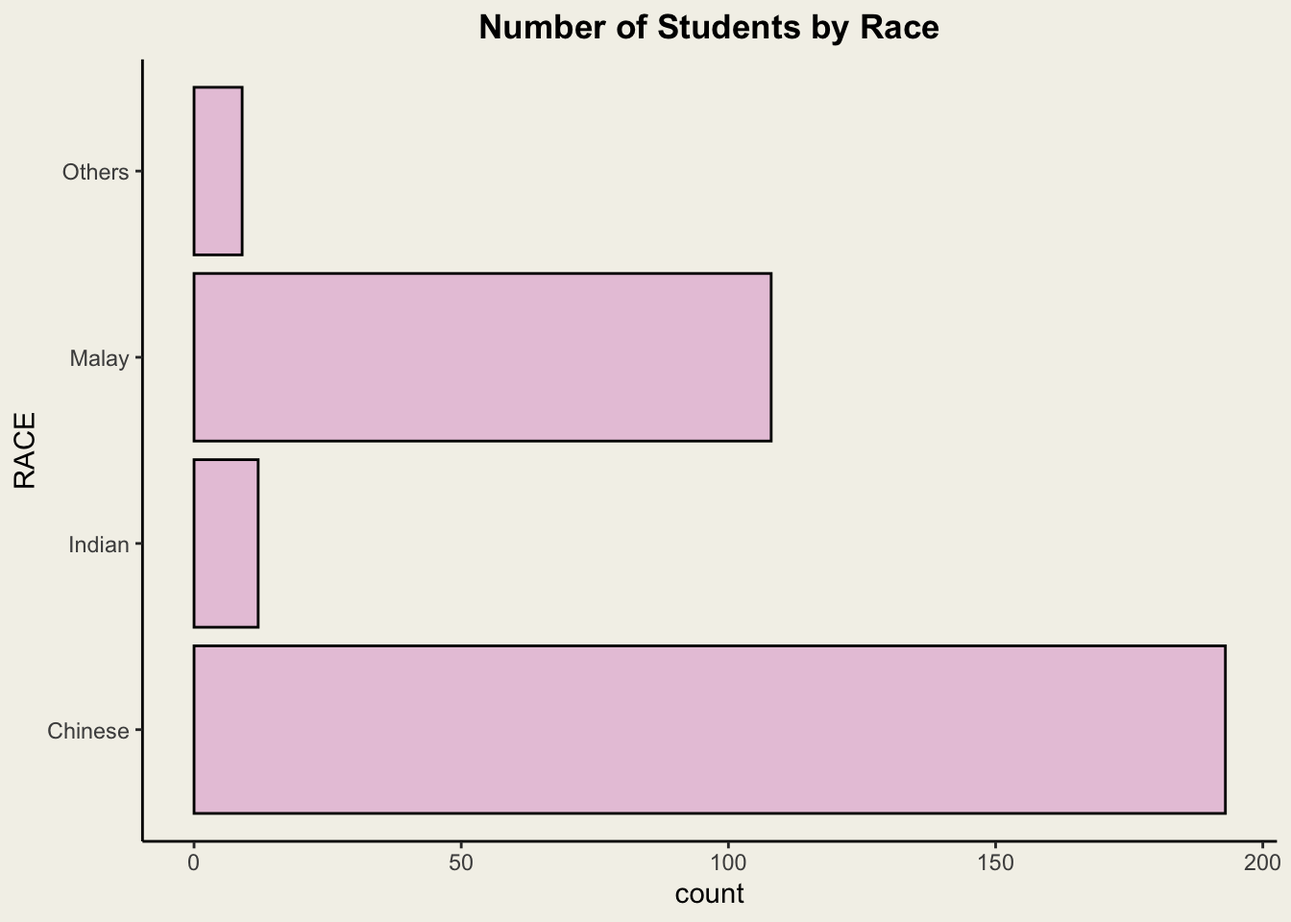
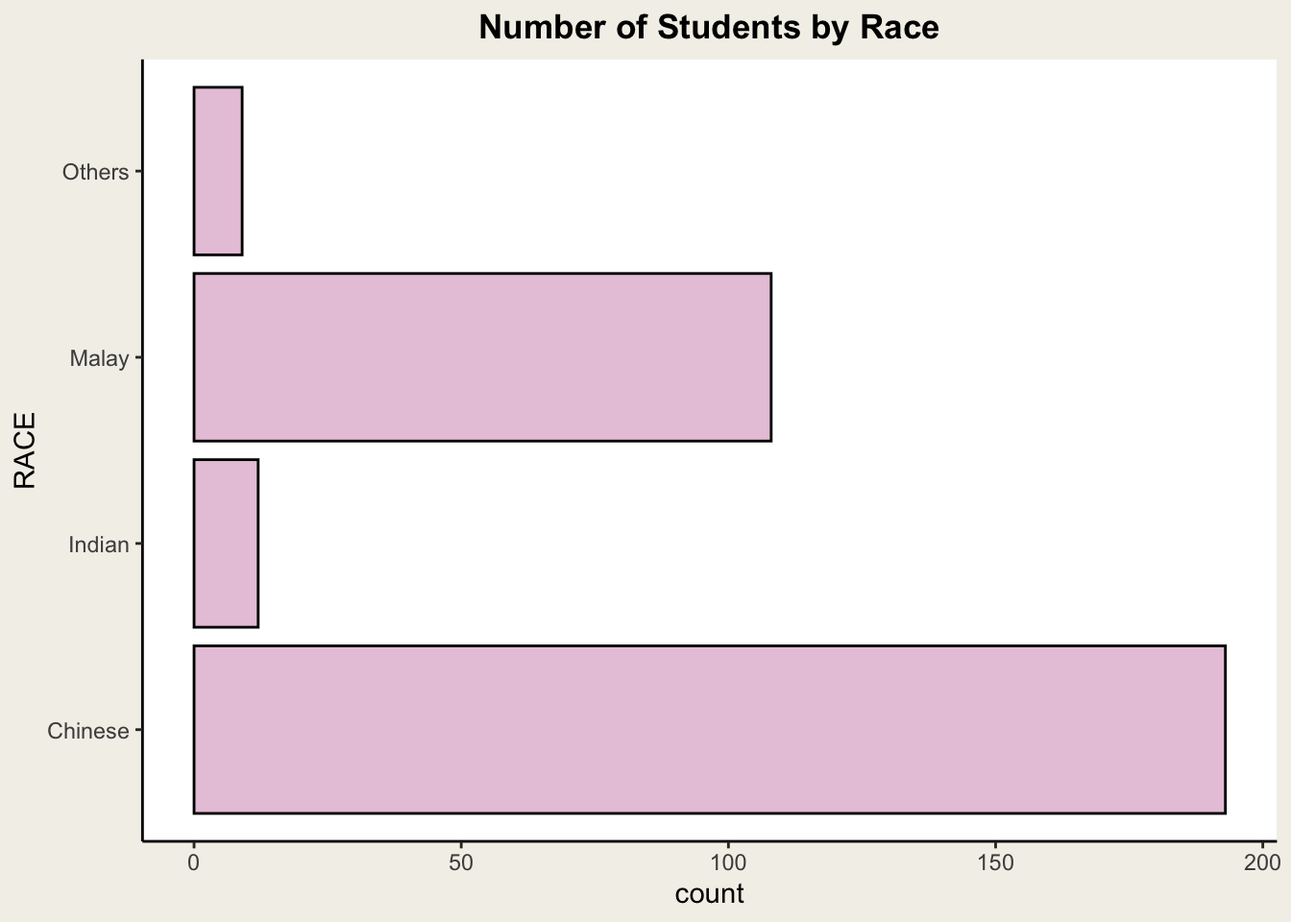
Update navbar-collapse

diff --git a/_site/Hands-on_Ex/Hands-on_Ex01/Hands-on_Ex01.html b/_site/Hands-on_Ex/Hands-on_Ex01/Hands-on_Ex01.html
@@ -65,7 +65,7 @@ pre > code.sourceCode > span > a:first-child::before { text-decoration: underlin
 <script src="../../site_libs/quarto-search/fuse.min.js"></script>
 <script src="../../site_libs/quarto-search/quarto-search.js"></script>
 <meta name="quarto:offset" content="../../">
-<link href="../../images/favicon-3/favicon.ico" rel="icon">
+<link href="../../images/favicon/web-app-manifest-192x192.png" rel="icon" type="image/png">
 <script src="../../site_libs/quarto-html/quarto.js"></script>
 <script src="../../site_libs/quarto-html/popper.min.js"></script>
 <script src="../../site_libs/quarto-html/tippy.umd.min.js"></script>
@@ -541,7 +541,12 @@ pre > code.sourceCode > span > a:first-child::before { text-decoration: underlin
 <span id="cb13-6"><a href="#cb13-6" aria-hidden="true" tabindex="-1"></a>                 <span class="at">fill=</span><span class="st">"#E8C8DB"</span>)<span class="sc">+</span></span>
 <span id="cb13-7"><a href="#cb13-7" aria-hidden="true" tabindex="-1"></a>  <span class="fu">ggtitle</span>(<span class="st">"Distribution of Math Scores"</span>)<span class="sc">+</span></span>
 <span id="cb13-8"><a href="#cb13-8" aria-hidden="true" tabindex="-1"></a>  <span class="fu">theme_classic</span>()<span class="sc">+</span></span>
-<span id="cb13-9"><a href="#cb13-9" aria-hidden="true" tabindex="-1"></a>  <span class="fu">theme</span>(<span class="at">plot.title =</span> <span class="fu">element_text</span>(<span class="at">hjust =</span> <span class="fl">0.5</span>, <span class="at">face=</span><span class="st">"bold"</span>))</span></code><button title="Copy to Clipboard" class="code-copy-button"><i class="bi"></i></button></pre></div>
+<span id="cb13-9"><a href="#cb13-9" aria-hidden="true" tabindex="-1"></a>  <span class="fu">theme</span>(<span class="at">plot.title =</span> <span class="fu">element_text</span>(<span class="at">hjust =</span> <span class="fl">0.5</span>, <span class="at">face=</span><span class="st">"bold"</span>),</span>
+<span id="cb13-10"><a href="#cb13-10" aria-hidden="true" tabindex="-1"></a>        <span class="co"># adjust the background color behind the bar chart</span></span>
+<span id="cb13-11"><a href="#cb13-11" aria-hidden="true" tabindex="-1"></a>        <span class="at">panel.background =</span> <span class="fu">element_rect</span>(<span class="at">fill =</span> <span class="st">"#f3f1e9"</span>),</span>
+<span id="cb13-12"><a href="#cb13-12" aria-hidden="true" tabindex="-1"></a>        <span class="co"># adjust the background color of the whole plot</span></span>
+<span id="cb13-13"><a href="#cb13-13" aria-hidden="true" tabindex="-1"></a>        <span class="at">plot.background =</span> <span class="fu">element_rect</span>(<span class="at">fill =</span> <span class="st">"#f3f1e9"</span>,<span class="at">color =</span> <span class="cn">NA</span>),</span>
+<span id="cb13-14"><a href="#cb13-14" aria-hidden="true" tabindex="-1"></a>        <span class="at">legend.background =</span> <span class="fu">element_rect</span>(<span class="at">fill =</span> <span class="st">"#f3f1e9"</span>))</span></code><button title="Copy to Clipboard" class="code-copy-button"><i class="bi"></i></button></pre></div>
 <div class="cell-output-display">
 <div>
 <figure class="figure">
@@ -573,7 +578,8 @@ pre > code.sourceCode > span > a:first-child::before { text-decoration: underlin
 <span id="cb14-11"><a href="#cb14-11" aria-hidden="true" tabindex="-1"></a>        <span class="co"># adjust the background color behind the bar chart</span></span>
 <span id="cb14-12"><a href="#cb14-12" aria-hidden="true" tabindex="-1"></a>        <span class="at">panel.background =</span> <span class="fu">element_rect</span>(<span class="at">fill =</span> <span class="st">"#f3f1e9"</span>),</span>
 <span id="cb14-13"><a href="#cb14-13" aria-hidden="true" tabindex="-1"></a>        <span class="co"># adjust the background color of the whole plot</span></span>
-<span id="cb14-14"><a href="#cb14-14" aria-hidden="true" tabindex="-1"></a>        <span class="at">plot.background =</span> <span class="fu">element_rect</span>(<span class="at">fill =</span> <span class="st">"#f3f1e9"</span>,<span class="at">color =</span> <span class="cn">NA</span>))              </span></code><button title="Copy to Clipboard" class="code-copy-button"><i class="bi"></i></button></pre></div>
+<span id="cb14-14"><a href="#cb14-14" aria-hidden="true" tabindex="-1"></a>        <span class="at">plot.background =</span> <span class="fu">element_rect</span>(<span class="at">fill =</span> <span class="st">"#f3f1e9"</span>,<span class="at">color =</span> <span class="cn">NA</span>),</span>
+<span id="cb14-15"><a href="#cb14-15" aria-hidden="true" tabindex="-1"></a>        <span class="at">legend.background =</span> <span class="fu">element_rect</span>(<span class="at">fill =</span> <span class="st">"#f3f1e9"</span>))</span></code><button title="Copy to Clipboard" class="code-copy-button"><i class="bi"></i></button></pre></div>
 <div class="cell-output-display">
 <div>
 <figure class="figure">
@@ -625,7 +631,8 @@ pre > code.sourceCode > span > a:first-child::before { text-decoration: underlin
 <span id="cb16-9"><a href="#cb16-9" aria-hidden="true" tabindex="-1"></a>        <span class="co"># adjust the background color behind the bar chart</span></span>
 <span id="cb16-10"><a href="#cb16-10" aria-hidden="true" tabindex="-1"></a>        <span class="at">panel.background =</span> <span class="fu">element_rect</span>(<span class="at">fill =</span> <span class="st">"#f3f1e9"</span>),</span>
 <span id="cb16-11"><a href="#cb16-11" aria-hidden="true" tabindex="-1"></a>        <span class="co"># adjust the background color of the whole plot</span></span>
-<span id="cb16-12"><a href="#cb16-12" aria-hidden="true" tabindex="-1"></a>        <span class="at">plot.background =</span> <span class="fu">element_rect</span>(<span class="at">fill =</span> <span class="st">"#f3f1e9"</span>,<span class="at">color =</span> <span class="cn">NA</span>))</span></code><button title="Copy to Clipboard" class="code-copy-button"><i class="bi"></i></button></pre></div>
+<span id="cb16-12"><a href="#cb16-12" aria-hidden="true" tabindex="-1"></a>        <span class="at">plot.background =</span> <span class="fu">element_rect</span>(<span class="at">fill =</span> <span class="st">"#f3f1e9"</span>,<span class="at">color =</span> <span class="cn">NA</span>),</span>
+<span id="cb16-13"><a href="#cb16-13" aria-hidden="true" tabindex="-1"></a>        <span class="at">legend.background =</span> <span class="fu">element_rect</span>(<span class="at">fill =</span> <span class="st">"#f3f1e9"</span>))</span></code><button title="Copy to Clipboard" class="code-copy-button"><i class="bi"></i></button></pre></div>
 <div class="cell-output-display">
 <div>
 <figure class="figure">
@@ -733,7 +740,7 @@ pre > code.sourceCode > span > a:first-child::before { text-decoration: underlin
 <span id="cb20-3"><a href="#cb20-3" aria-hidden="true" tabindex="-1"></a>           <span class="at">y =</span> ENGLISH,</span>
 <span id="cb20-4"><a href="#cb20-4" aria-hidden="true" tabindex="-1"></a>           <span class="at">color =</span> GENDER))<span class="sc">+</span></span>
 <span id="cb20-5"><a href="#cb20-5" aria-hidden="true" tabindex="-1"></a>  <span class="fu">geom_point</span>()<span class="sc">+</span></span>
-<span id="cb20-6"><a href="#cb20-6" aria-hidden="true" tabindex="-1"></a>  <span class="fu">scale_color_manual</span>(<span class="at">values =</span> <span class="fu">c</span>(<span class="st">"#E8C8DB"</span>, <span class="st">"#C8DBE8"</span>))<span class="sc">+</span></span>
+<span id="cb20-6"><a href="#cb20-6" aria-hidden="true" tabindex="-1"></a>  <span class="fu">scale_color_manual</span>(<span class="at">values =</span> <span class="fu">c</span>(<span class="st">"#D9A4C3"</span>, <span class="st">"#A4A8D9"</span>))<span class="sc">+</span></span>
 <span id="cb20-7"><a href="#cb20-7" aria-hidden="true" tabindex="-1"></a>  <span class="fu">ggtitle</span>(<span class="st">"Distribution of Math Scores by Gender"</span>)<span class="sc">+</span></span>
 <span id="cb20-8"><a href="#cb20-8" aria-hidden="true" tabindex="-1"></a>  <span class="fu">theme_classic</span>()<span class="sc">+</span></span>
 <span id="cb20-9"><a href="#cb20-9" aria-hidden="true" tabindex="-1"></a>  <span class="fu">theme</span>(<span class="at">plot.title =</span> <span class="fu">element_text</span>(<span class="at">hjust =</span> <span class="fl">0.5</span>, <span class="at">face=</span><span class="st">"bold"</span>),</span>
@@ -1100,7 +1107,7 @@ position_identity </code></pre>
 <p>Built-in themes include: -&nbsp;<code>theme_gray()</code>&nbsp;(default) -&nbsp;<code>theme_bw()</code>&nbsp;-&nbsp;<code>theme_classic()</code></p>
 <p>A list of theme can be found at this&nbsp;<a href="https://ggplot2.tidyverse.org/reference/ggtheme.html">link</a>. Each theme element can be conceived of as either a line (e.g.&nbsp;x-axis), a rectangle (e.g.&nbsp;graph background), or text (e.g.&nbsp;axis title).</p>
 <div class="tabset-margin-container"></div><div class="panel-tabset">
-<ul class="nav nav-tabs" role="tablist"><li class="nav-item" role="presentation"><a class="nav-link active" id="tabset-7-1-tab" data-bs-toggle="tab" data-bs-target="#tabset-7-1" role="tab" aria-controls="tabset-7-1" aria-selected="true">theme_gray()</a></li><li class="nav-item" role="presentation"><a class="nav-link" id="tabset-7-2-tab" data-bs-toggle="tab" data-bs-target="#tabset-7-2" role="tab" aria-controls="tabset-7-2" aria-selected="false">theme_classic()</a></li><li class="nav-item" role="presentation"><a class="nav-link" id="tabset-7-3-tab" data-bs-toggle="tab" data-bs-target="#tabset-7-3" role="tab" aria-controls="tabset-7-3" aria-selected="false">theme_minimal()</a></li><li class="nav-item" role="presentation"><a class="nav-link" id="tabset-7-4-tab" data-bs-toggle="tab" data-bs-target="#tabset-7-4" role="tab" aria-controls="tabset-7-4" aria-selected="false">theme_bw()</a></li></ul>
+<ul class="nav nav-tabs" role="tablist"><li class="nav-item" role="presentation"><a class="nav-link active" id="tabset-7-1-tab" data-bs-toggle="tab" data-bs-target="#tabset-7-1" role="tab" aria-controls="tabset-7-1" aria-selected="true">theme_gray()</a></li><li class="nav-item" role="presentation"><a class="nav-link" id="tabset-7-2-tab" data-bs-toggle="tab" data-bs-target="#tabset-7-2" role="tab" aria-controls="tabset-7-2" aria-selected="false">theme_classic()</a></li><li class="nav-item" role="presentation"><a class="nav-link" id="tabset-7-3-tab" data-bs-toggle="tab" data-bs-target="#tabset-7-3" role="tab" aria-controls="tabset-7-3" aria-selected="false">theme_minimal()</a></li><li class="nav-item" role="presentation"><a class="nav-link" id="tabset-7-4-tab" data-bs-toggle="tab" data-bs-target="#tabset-7-4" role="tab" aria-controls="tabset-7-4" aria-selected="false">theme_bw()</a></li><li class="nav-item" role="presentation"><a class="nav-link" id="tabset-7-5-tab" data-bs-toggle="tab" data-bs-target="#tabset-7-5" role="tab" aria-controls="tabset-7-5" aria-selected="false">theme_dark()</a></li><li class="nav-item" role="presentation"><a class="nav-link" id="tabset-7-6-tab" data-bs-toggle="tab" data-bs-target="#tabset-7-6" role="tab" aria-controls="tabset-7-6" aria-selected="false">theme_linedraw()</a></li><li class="nav-item" role="presentation"><a class="nav-link" id="tabset-7-7-tab" data-bs-toggle="tab" data-bs-target="#tabset-7-7" role="tab" aria-controls="tabset-7-7" aria-selected="false">theme_void()</a></li></ul>
 <div class="tab-content">
 <div id="tabset-7-1" class="tab-pane active" role="tabpanel" aria-labelledby="tabset-7-1-tab">
 <p>This is the default theme.</p>
@@ -1132,10 +1139,9 @@ position_identity </code></pre>
 <span id="cb37-5"><a href="#cb37-5" aria-hidden="true" tabindex="-1"></a>  <span class="fu">theme_classic</span>()<span class="sc">+</span></span>
 <span id="cb37-6"><a href="#cb37-6" aria-hidden="true" tabindex="-1"></a>  <span class="fu">ggtitle</span>(<span class="st">"Number of Students by Race"</span>)<span class="sc">+</span></span>
 <span id="cb37-7"><a href="#cb37-7" aria-hidden="true" tabindex="-1"></a>  <span class="fu">theme</span>(<span class="at">plot.title =</span> <span class="fu">element_text</span>(<span class="at">hjust =</span> <span class="fl">0.5</span>, <span class="at">face=</span><span class="st">"bold"</span>),</span>
-<span id="cb37-8"><a href="#cb37-8" aria-hidden="true" tabindex="-1"></a>        <span class="at">panel.background =</span> <span class="fu">element_rect</span>(<span class="at">fill =</span> <span class="st">"#f3f1e9"</span>,<span class="at">color =</span> <span class="cn">NA</span>),</span>
-<span id="cb37-9"><a href="#cb37-9" aria-hidden="true" tabindex="-1"></a>        <span class="co"># adjust the background color of the whole plot</span></span>
-<span id="cb37-10"><a href="#cb37-10" aria-hidden="true" tabindex="-1"></a>        <span class="at">plot.background =</span> <span class="fu">element_rect</span>(<span class="at">fill =</span> <span class="st">"#f3f1e9"</span>,<span class="at">color =</span> <span class="cn">NA</span>),</span>
-<span id="cb37-11"><a href="#cb37-11" aria-hidden="true" tabindex="-1"></a>        <span class="at">legend.background =</span> <span class="fu">element_rect</span>(<span class="at">fill =</span> <span class="st">"#f3f1e9"</span>))</span></code><button title="Copy to Clipboard" class="code-copy-button"><i class="bi"></i></button></pre></div>
+<span id="cb37-8"><a href="#cb37-8" aria-hidden="true" tabindex="-1"></a>        <span class="co"># adjust the background color of the whole plot</span></span>
+<span id="cb37-9"><a href="#cb37-9" aria-hidden="true" tabindex="-1"></a>        <span class="at">plot.background =</span> <span class="fu">element_rect</span>(<span class="at">fill =</span> <span class="st">"#f3f1e9"</span>,<span class="at">color =</span> <span class="cn">NA</span>),</span>
+<span id="cb37-10"><a href="#cb37-10" aria-hidden="true" tabindex="-1"></a>        <span class="at">legend.background =</span> <span class="fu">element_rect</span>(<span class="at">fill =</span> <span class="st">"#f3f1e9"</span>))</span></code><button title="Copy to Clipboard" class="code-copy-button"><i class="bi"></i></button></pre></div>
 <div class="cell-output-display">
 <div>
 <figure class="figure">
@@ -1154,13 +1160,9 @@ position_identity </code></pre>
 <span id="cb38-5"><a href="#cb38-5" aria-hidden="true" tabindex="-1"></a>  <span class="fu">theme_minimal</span>()<span class="sc">+</span></span>
 <span id="cb38-6"><a href="#cb38-6" aria-hidden="true" tabindex="-1"></a>  <span class="fu">ggtitle</span>(<span class="st">"Number of Students by Race"</span>)<span class="sc">+</span></span>
 <span id="cb38-7"><a href="#cb38-7" aria-hidden="true" tabindex="-1"></a>  <span class="fu">theme</span>(<span class="at">plot.title =</span> <span class="fu">element_text</span>(<span class="at">hjust =</span> <span class="fl">0.5</span>, <span class="at">face=</span><span class="st">"bold"</span>),</span>
-<span id="cb38-8"><a href="#cb38-8" aria-hidden="true" tabindex="-1"></a>        <span class="co"># adjust the color behind the bar chart</span></span>
-<span id="cb38-9"><a href="#cb38-9" aria-hidden="true" tabindex="-1"></a>        <span class="at">panel.background =</span> <span class="fu">element_rect</span>(<span class="at">fill =</span> <span class="st">"#f3f1e9"</span>,<span class="at">color =</span> <span class="cn">NA</span>),</span>
-<span id="cb38-10"><a href="#cb38-10" aria-hidden="true" tabindex="-1"></a>        <span class="co"># adjust the background color of the whole plot</span></span>
-<span id="cb38-11"><a href="#cb38-11" aria-hidden="true" tabindex="-1"></a>        <span class="at">plot.background =</span> <span class="fu">element_rect</span>(<span class="at">fill =</span> <span class="st">"#f3f1e9"</span>,<span class="at">color =</span> <span class="cn">NA</span>),</span>
-<span id="cb38-12"><a href="#cb38-12" aria-hidden="true" tabindex="-1"></a>        <span class="co"># adjust the color of panel grid</span></span>
-<span id="cb38-13"><a href="#cb38-13" aria-hidden="true" tabindex="-1"></a>        <span class="at">panel.grid.major =</span> <span class="fu">element_line</span>(<span class="at">color =</span> <span class="st">"black"</span>),</span>
-<span id="cb38-14"><a href="#cb38-14" aria-hidden="true" tabindex="-1"></a>        <span class="at">legend.background =</span> <span class="fu">element_rect</span>(<span class="at">fill =</span> <span class="st">"#f3f1e9"</span>))</span></code><button title="Copy to Clipboard" class="code-copy-button"><i class="bi"></i></button></pre></div>
+<span id="cb38-8"><a href="#cb38-8" aria-hidden="true" tabindex="-1"></a>        <span class="co"># adjust the background color of the whole plot</span></span>
+<span id="cb38-9"><a href="#cb38-9" aria-hidden="true" tabindex="-1"></a>        <span class="at">plot.background =</span> <span class="fu">element_rect</span>(<span class="at">fill =</span> <span class="st">"#f3f1e9"</span>,<span class="at">color =</span> <span class="cn">NA</span>),</span>
+<span id="cb38-10"><a href="#cb38-10" aria-hidden="true" tabindex="-1"></a>        <span class="at">legend.background =</span> <span class="fu">element_rect</span>(<span class="at">fill =</span> <span class="st">"#f3f1e9"</span>))</span></code><button title="Copy to Clipboard" class="code-copy-button"><i class="bi"></i></button></pre></div>
 <div class="cell-output-display">
 <div>
 <figure class="figure">
@@ -1179,17 +1181,81 @@ position_identity </code></pre>
 <span id="cb39-5"><a href="#cb39-5" aria-hidden="true" tabindex="-1"></a>  <span class="fu">theme_bw</span>()<span class="sc">+</span></span>
 <span id="cb39-6"><a href="#cb39-6" aria-hidden="true" tabindex="-1"></a>  <span class="fu">ggtitle</span>(<span class="st">"Number of Students by Race"</span>)<span class="sc">+</span></span>
 <span id="cb39-7"><a href="#cb39-7" aria-hidden="true" tabindex="-1"></a>  <span class="fu">theme</span>(<span class="at">plot.title =</span> <span class="fu">element_text</span>(<span class="at">hjust =</span> <span class="fl">0.5</span>, <span class="at">face=</span><span class="st">"bold"</span>),</span>
-<span id="cb39-8"><a href="#cb39-8" aria-hidden="true" tabindex="-1"></a>        <span class="co"># adjust the color behind the bar chart</span></span>
-<span id="cb39-9"><a href="#cb39-9" aria-hidden="true" tabindex="-1"></a>        <span class="at">panel.background =</span> <span class="fu">element_rect</span>(<span class="at">fill =</span> <span class="st">"#f3f1e9"</span>,<span class="at">color =</span> <span class="cn">NA</span>),</span>
-<span id="cb39-10"><a href="#cb39-10" aria-hidden="true" tabindex="-1"></a>        <span class="co"># adjust the background color of the whole plot</span></span>
-<span id="cb39-11"><a href="#cb39-11" aria-hidden="true" tabindex="-1"></a>        <span class="at">plot.background =</span> <span class="fu">element_rect</span>(<span class="at">fill =</span> <span class="st">"#f3f1e9"</span>,<span class="at">color =</span> <span class="cn">NA</span>),</span>
-<span id="cb39-12"><a href="#cb39-12" aria-hidden="true" tabindex="-1"></a>        <span class="co"># adjust the color of panel grid</span></span>
-<span id="cb39-13"><a href="#cb39-13" aria-hidden="true" tabindex="-1"></a>        <span class="at">panel.grid.major =</span> <span class="fu">element_line</span>(<span class="at">color =</span> <span class="st">"black"</span>),</span>
-<span id="cb39-14"><a href="#cb39-14" aria-hidden="true" tabindex="-1"></a>        <span class="at">legend.background =</span> <span class="fu">element_rect</span>(<span class="at">fill =</span> <span class="st">"#f3f1e9"</span>))</span></code><button title="Copy to Clipboard" class="code-copy-button"><i class="bi"></i></button></pre></div>
+<span id="cb39-8"><a href="#cb39-8" aria-hidden="true" tabindex="-1"></a>        <span class="co"># adjust the background color of the whole plot</span></span>
+<span id="cb39-9"><a href="#cb39-9" aria-hidden="true" tabindex="-1"></a>        <span class="at">plot.background =</span> <span class="fu">element_rect</span>(<span class="at">fill =</span> <span class="st">"#f3f1e9"</span>,<span class="at">color =</span> <span class="cn">NA</span>),</span>
+<span id="cb39-10"><a href="#cb39-10" aria-hidden="true" tabindex="-1"></a>        <span class="co"># adjust the color of panel grid</span></span>
+<span id="cb39-11"><a href="#cb39-11" aria-hidden="true" tabindex="-1"></a>        <span class="at">legend.background =</span> <span class="fu">element_rect</span>(<span class="at">fill =</span> <span class="st">"#f3f1e9"</span>))</span></code><button title="Copy to Clipboard" class="code-copy-button"><i class="bi"></i></button></pre></div>
 <div class="cell-output-display">
 <div>
 <figure class="figure">
 <p><img src="Hands-on_Ex01_files/figure-html/unnamed-chunk-33-1.png" class="img-fluid figure-img" width="672"></p>
+</figure>
+</div>
+</div>
+</div>
+</div>
+<div id="tabset-7-5" class="tab-pane" role="tabpanel" aria-labelledby="tabset-7-5-tab">
+<div class="cell">
+<div class="sourceCode cell-code" id="cb40"><pre class="sourceCode r code-with-copy"><code class="sourceCode r"><span id="cb40-1"><a href="#cb40-1" aria-hidden="true" tabindex="-1"></a><span class="fu">ggplot</span>(<span class="at">data =</span> exam_data,</span>
+<span id="cb40-2"><a href="#cb40-2" aria-hidden="true" tabindex="-1"></a>       <span class="fu">aes</span>(<span class="at">x =</span> RACE))<span class="sc">+</span></span>
+<span id="cb40-3"><a href="#cb40-3" aria-hidden="true" tabindex="-1"></a>  <span class="fu">geom_bar</span>(<span class="at">bins=</span><span class="dv">20</span>,<span class="at">fill=</span><span class="st">"#E8C8DB"</span>,<span class="at">color=</span><span class="st">"black"</span>)<span class="sc">+</span></span>
+<span id="cb40-4"><a href="#cb40-4" aria-hidden="true" tabindex="-1"></a>  <span class="fu">coord_flip</span>()<span class="sc">+</span></span>
+<span id="cb40-5"><a href="#cb40-5" aria-hidden="true" tabindex="-1"></a>  <span class="fu">theme_dark</span>()<span class="sc">+</span></span>
+<span id="cb40-6"><a href="#cb40-6" aria-hidden="true" tabindex="-1"></a>  <span class="fu">ggtitle</span>(<span class="st">"Number of Students by Race"</span>)<span class="sc">+</span></span>
+<span id="cb40-7"><a href="#cb40-7" aria-hidden="true" tabindex="-1"></a>  <span class="fu">theme</span>(<span class="at">plot.title =</span> <span class="fu">element_text</span>(<span class="at">hjust =</span> <span class="fl">0.5</span>, <span class="at">face=</span><span class="st">"bold"</span>),</span>
+<span id="cb40-8"><a href="#cb40-8" aria-hidden="true" tabindex="-1"></a>        <span class="co"># adjust the background color of the whole plot</span></span>
+<span id="cb40-9"><a href="#cb40-9" aria-hidden="true" tabindex="-1"></a>        <span class="at">plot.background =</span> <span class="fu">element_rect</span>(<span class="at">fill =</span> <span class="st">"#f3f1e9"</span>,<span class="at">color =</span> <span class="cn">NA</span>),</span>
+<span id="cb40-10"><a href="#cb40-10" aria-hidden="true" tabindex="-1"></a>        <span class="at">legend.background =</span> <span class="fu">element_rect</span>(<span class="at">fill =</span> <span class="st">"#f3f1e9"</span>))</span></code><button title="Copy to Clipboard" class="code-copy-button"><i class="bi"></i></button></pre></div>
+<div class="cell-output-display">
+<div>
+<figure class="figure">
+<p><img src="Hands-on_Ex01_files/figure-html/unnamed-chunk-34-1.png" class="img-fluid figure-img" width="672"></p>
+</figure>
+</div>
+</div>
+</div>
+</div>
+<div id="tabset-7-6" class="tab-pane" role="tabpanel" aria-labelledby="tabset-7-6-tab">
+<div class="cell">
+<div class="sourceCode cell-code" id="cb41"><pre class="sourceCode r code-with-copy"><code class="sourceCode r"><span id="cb41-1"><a href="#cb41-1" aria-hidden="true" tabindex="-1"></a><span class="fu">ggplot</span>(<span class="at">data =</span> exam_data,</span>
+<span id="cb41-2"><a href="#cb41-2" aria-hidden="true" tabindex="-1"></a>       <span class="fu">aes</span>(<span class="at">x =</span> RACE))<span class="sc">+</span></span>
+<span id="cb41-3"><a href="#cb41-3" aria-hidden="true" tabindex="-1"></a>  <span class="fu">geom_bar</span>(<span class="at">bins=</span><span class="dv">20</span>,<span class="at">fill=</span><span class="st">"#E8C8DB"</span>,<span class="at">color=</span><span class="st">"black"</span>)<span class="sc">+</span></span>
+<span id="cb41-4"><a href="#cb41-4" aria-hidden="true" tabindex="-1"></a>  <span class="fu">coord_flip</span>()<span class="sc">+</span></span>
+<span id="cb41-5"><a href="#cb41-5" aria-hidden="true" tabindex="-1"></a>  <span class="fu">theme_linedraw</span>()<span class="sc">+</span></span>
+<span id="cb41-6"><a href="#cb41-6" aria-hidden="true" tabindex="-1"></a>  <span class="fu">ggtitle</span>(<span class="st">"Number of Students by Race"</span>)<span class="sc">+</span></span>
+<span id="cb41-7"><a href="#cb41-7" aria-hidden="true" tabindex="-1"></a>  <span class="fu">theme</span>(<span class="at">plot.title =</span> <span class="fu">element_text</span>(<span class="at">hjust =</span> <span class="fl">0.5</span>, <span class="at">face=</span><span class="st">"bold"</span>),</span>
+<span id="cb41-8"><a href="#cb41-8" aria-hidden="true" tabindex="-1"></a>        <span class="co"># adjust the background color of the whole plot</span></span>
+<span id="cb41-9"><a href="#cb41-9" aria-hidden="true" tabindex="-1"></a>        <span class="at">plot.background =</span> <span class="fu">element_rect</span>(<span class="at">fill =</span> <span class="st">"#f3f1e9"</span>,<span class="at">color =</span> <span class="cn">NA</span>),</span>
+<span id="cb41-10"><a href="#cb41-10" aria-hidden="true" tabindex="-1"></a>        <span class="co"># adjust the color of panel grid</span></span>
+<span id="cb41-11"><a href="#cb41-11" aria-hidden="true" tabindex="-1"></a>        <span class="at">legend.background =</span> <span class="fu">element_rect</span>(<span class="at">fill =</span> <span class="st">"#f3f1e9"</span>))</span></code><button title="Copy to Clipboard" class="code-copy-button"><i class="bi"></i></button></pre></div>
+<div class="cell-output-display">
+<div>
+<figure class="figure">
+<p><img src="Hands-on_Ex01_files/figure-html/unnamed-chunk-35-1.png" class="img-fluid figure-img" width="672"></p>
+</figure>
+</div>
+</div>
+</div>
+</div>
+<div id="tabset-7-7" class="tab-pane" role="tabpanel" aria-labelledby="tabset-7-7-tab">
+<div class="cell">
+<div class="sourceCode cell-code" id="cb42"><pre class="sourceCode r code-with-copy"><code class="sourceCode r"><span id="cb42-1"><a href="#cb42-1" aria-hidden="true" tabindex="-1"></a><span class="fu">ggplot</span>(<span class="at">data =</span> exam_data,</span>
+<span id="cb42-2"><a href="#cb42-2" aria-hidden="true" tabindex="-1"></a>       <span class="fu">aes</span>(<span class="at">x =</span> RACE))<span class="sc">+</span></span>
+<span id="cb42-3"><a href="#cb42-3" aria-hidden="true" tabindex="-1"></a>  <span class="fu">geom_bar</span>(<span class="at">bins=</span><span class="dv">20</span>,<span class="at">fill=</span><span class="st">"#E8C8DB"</span>,<span class="at">color=</span><span class="st">"black"</span>)<span class="sc">+</span></span>
+<span id="cb42-4"><a href="#cb42-4" aria-hidden="true" tabindex="-1"></a>  <span class="fu">coord_flip</span>()<span class="sc">+</span></span>
+<span id="cb42-5"><a href="#cb42-5" aria-hidden="true" tabindex="-1"></a>  <span class="fu">theme_void</span>()<span class="sc">+</span></span>
+<span id="cb42-6"><a href="#cb42-6" aria-hidden="true" tabindex="-1"></a>  <span class="fu">ggtitle</span>(<span class="st">"Number of Students by Race"</span>)<span class="sc">+</span></span>
+<span id="cb42-7"><a href="#cb42-7" aria-hidden="true" tabindex="-1"></a>  <span class="fu">theme</span>(<span class="at">plot.title =</span> <span class="fu">element_text</span>(<span class="at">hjust =</span> <span class="fl">0.5</span>, <span class="at">face=</span><span class="st">"bold"</span>),</span>
+<span id="cb42-8"><a href="#cb42-8" aria-hidden="true" tabindex="-1"></a>        <span class="co"># adjust the color behind the bar chart</span></span>
+<span id="cb42-9"><a href="#cb42-9" aria-hidden="true" tabindex="-1"></a>        <span class="at">panel.background =</span> <span class="fu">element_rect</span>(<span class="at">fill =</span> <span class="st">"#f3f1e9"</span>,<span class="at">color =</span> <span class="cn">NA</span>),</span>
+<span id="cb42-10"><a href="#cb42-10" aria-hidden="true" tabindex="-1"></a>        <span class="co"># adjust the background color of the whole plot</span></span>
+<span id="cb42-11"><a href="#cb42-11" aria-hidden="true" tabindex="-1"></a>        <span class="at">plot.background =</span> <span class="fu">element_rect</span>(<span class="at">fill =</span> <span class="st">"#f3f1e9"</span>,<span class="at">color =</span> <span class="cn">NA</span>),</span>
+<span id="cb42-12"><a href="#cb42-12" aria-hidden="true" tabindex="-1"></a>        <span class="co"># adjust the color of panel grid</span></span>
+<span id="cb42-13"><a href="#cb42-13" aria-hidden="true" tabindex="-1"></a>        <span class="at">legend.background =</span> <span class="fu">element_rect</span>(<span class="at">fill =</span> <span class="st">"#f3f1e9"</span>))</span></code><button title="Copy to Clipboard" class="code-copy-button"><i class="bi"></i></button></pre></div>
+<div class="cell-output-display">
+<div>
+<figure class="figure">
+<p><img src="Hands-on_Ex01_files/figure-html/unnamed-chunk-36-1.png" class="img-fluid figure-img" width="672"></p>
 </figure>
 </div>
 </div>

diff --git a/_site/styles.css b/_site/styles.css
@@ -103,10 +103,15 @@ a:focus {
 
 /* Navigation bar setup */
 .navbar {
-  height: 100px; /* Adjust this value as needed */
-  background-color: #f3f1e9;
+  height: 100px; 
+  background-color: #f3f1e9 !important;
   border-top: 2px solid black;
   border-bottom: 2px solid black;
+}
+
+div.navbar-collapse {
+    background-color: #f3f1e9 !important; 
+    opacity: 1 !important;
 }
 
 /* Logo */

diff --git a/styles.css b/styles.css
@@ -103,10 +103,15 @@ a:focus {
 
 /* Navigation bar setup */
 .navbar {
-  height: 100px; /* Adjust this value as needed */
-  background-color: #f3f1e9;
+  height: 100px; 
+  background-color: #f3f1e9 !important;
   border-top: 2px solid black;
   border-bottom: 2px solid black;
+}
+
+div.navbar-collapse {
+    background-color: #f3f1e9 !important; 
+    opacity: 1 !important;
 }
 
 /* Logo */
